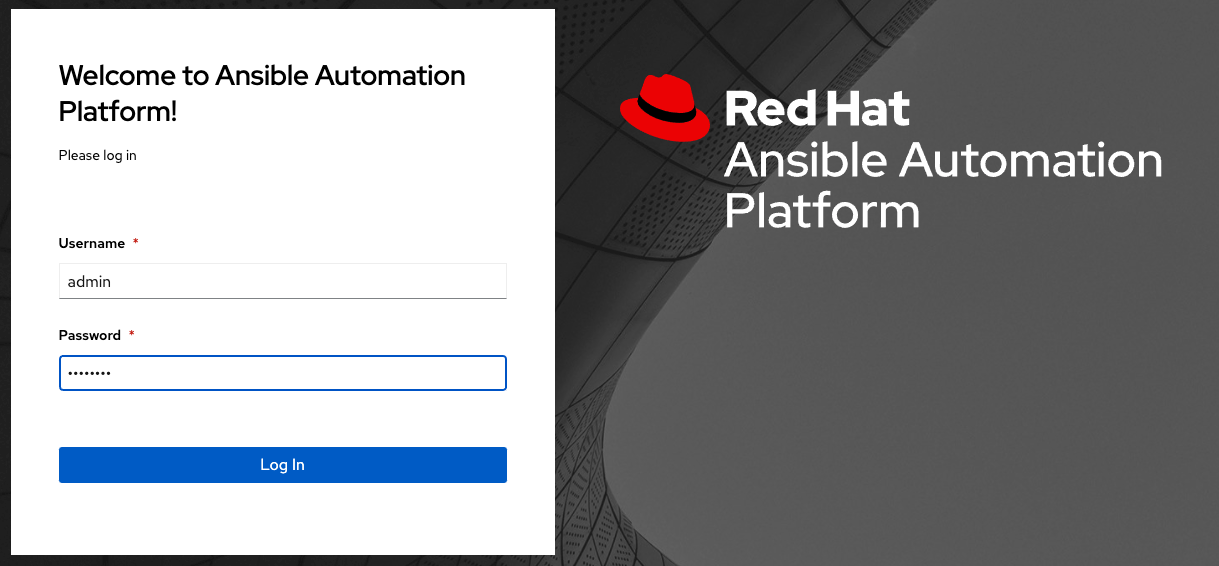
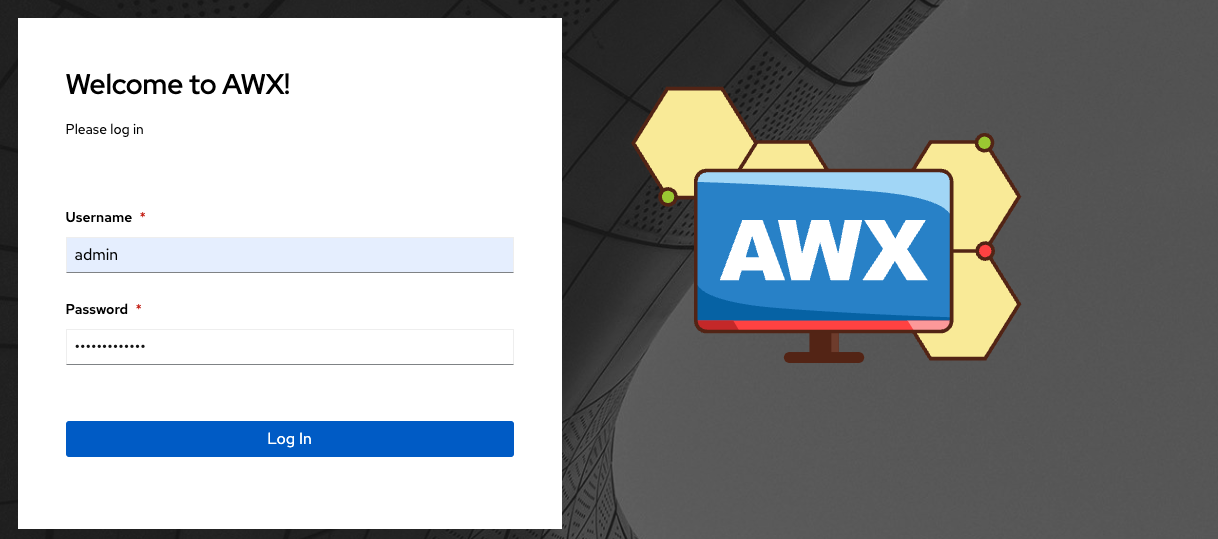
Changes for all Quickstart content.

Changed region(s): [[0.0, 0.0, 0.9672, 1.0], [0.7488, 0.0, 0.78, 0.0594], [0.7176, 0.0594, 0.7488, 0.1187]]

diff --git a/docs/docsite/rst/quickstart/examine_dashboard.rst b/docs/docsite/rst/quickstart/examine_dashboard.rst
@@ -1,5 +1,5 @@
-Examine the Controller Dashboard
-~~~~~~~~~~~~~~~~~~~~~~~~~~~~~~~~~~
+Examine the AWX Dashboard
+~~~~~~~~~~~~~~~~~~~~~~~~~~
 
 .. index::
    pair: dashboard; examine
@@ -15,13 +15,13 @@ Examine the Controller Dashboard
    pair: settings menu; help about
 
 
-The Dashboard offers a friendly graphical framework for your IT orchestration needs. Along the left side of the Dashboard is the navigation menu, where you can quickly display different views, navigate to your resources, grant access, and administer certain controller features in the UI. 
+The Dashboard offers a friendly graphical framework for your IT orchestration needs. Along the left side of the Dashboard is the navigation menu, where you can quickly display different views, navigate to your resources, grant access, and administer certain AWX features in the UI. 
 
 .. note::
 
-  The new controller User Interface is available for tech preview and is subject to change in a future release. To preview the new UI, click the **Enable Preview of New User Interface** toggle to **On** from the Miscellaneous System option of the Settings menu. 
+  The new AWX User Interface is available for tech preview and is subject to change in a future release. To preview the new UI, click the **Enable Preview of New User Interface** toggle to **On** from the Miscellaneous System option of the Settings menu. 
 
-  .. image:: ../common/images/configure-tower-system-misc-preview-newui.png
+  .. image:: ../common/images/configure-awx-system-misc-preview-newui.png
 
   After saving, logout and log back in to access the new UI from the preview banner. To return to the current UI, click the link on the top banner where indicated.
 
@@ -38,16 +38,16 @@ On the main Dashboard view, a summary appears listing your current **Job Status*
 
 .. |Home dashboard| image:: ../common/images/home-dashboard.png
 
-The very last item in the navigation bar is **Settings**, which provides access to the controller configuration Settings. 
+The very last item in the navigation bar is **Settings**, which provides access to the AWX configuration Settings. 
 
 The Settings page allows administrators to configure authentication, jobs, system-level attributes, customize the user interface, and product license information. Refer to :ref:`ag_configure_awx` section for more detail.
 
 .. image:: ../common/images/ug-settings-menu-screen.png
 
 
-Regardless of the window or action you're performing, the very top of each page next to the your user icon is the About (|about|) icon, which provides you the versions of |at| and Ansible you are currently running.
+Regardless of the window or action you're performing, the very top of each page next to the your user icon is the About (|about|) icon, which provides you the versions of AWX and Ansible you are currently running.
 
 .. |about| image:: ../common/images/help-about-icon.png
 
 .. note::
-	Keep in mind that the goal of this Quick Start is to launch a simple playbook. To do this, a number of configuration options must be setup. Completing the quick start configuration tasks now ensures that the controller is configured properly and allows for easier executions of more involved playbooks later on. 
+	Keep in mind that the goal of this Quick Start is to launch a simple playbook. To do this, a number of configuration options must be setup. Completing the quick start configuration tasks now ensures that tAWX is configured properly and allows for easier executions of more involved playbooks later on. 

diff --git a/docs/docsite/rst/quickstart/create_inventory.rst b/docs/docsite/rst/quickstart/create_inventory.rst
@@ -5,13 +5,13 @@ Create a new Inventory
    single: inventory; create new
    single: inventory; add to organization
 
-An inventory is a collection of hosts managed by the controller. Organizations are assigned to inventories, while permissions to launch playbooks against inventories are controlled at the user and/or team level. For more information, refer to :ref:`Inventories <ug_inventories>`, :ref:`Users - Permissions <ug_users_permissions>`, and :ref:`Teams - Permissions <ug_teams_permissions>` in the |atu|.
+An inventory is a collection of hosts managed by AWX. Organizations are assigned to inventories, while permissions to launch playbooks against inventories are controlled at the user and/or team level. For more information, refer to :ref:`Inventories <ug_inventories>`, :ref:`Users - Permissions <ug_users_permissions>`, and :ref:`Teams - Permissions <ug_teams_permissions>` in the |atu|.
 
 To view existing inventories, click **Inventories** from the left navigation bar.
 
 .. image:: ../common/images/qs-inventories-default-list-view.png
 
-|at| provides a demo inventory for you to use as you learn how the controller works. It can be used as is or edited later as needed. You may create another inventory if necessary. Refer to :ref:`ug_inventories_add` in the |atu| for detail.
+|at| provides a demo inventory for you to use as you learn how AWX works. It can be used as is or edited later as needed. You may create another inventory if necessary. Refer to :ref:`ug_inventories_add` in the |atu| for detail.
 
 For the purpose of this Quick Start Guide, leave the default inventory as is. 
 
@@ -37,7 +37,7 @@ To add new groups, click the **Add** button in the Groups screen.
 
 Similarly, in the **Hosts** tab, click the **Add** button to add hosts to groups.
 
-For the purposes of this Quick Start and to test that the controller is setup properly, a local host has been added for your use.
+For the purposes of this Quick Start and to test that AWX is setup properly, a local host has been added for your use.
 
 .. image:: ../common/images/qs-inventories-default-host.png
 

diff --git a/docs/docsite/rst/quickstart/create_organization.rst b/docs/docsite/rst/quickstart/create_organization.rst
@@ -4,12 +4,12 @@ Review the Organization
 .. index::
    single: organizations
 
-An organization is a logical collection of users, teams, projects, and inventories. It is the highest level object in the controller object hierarchy.
+An organization is a logical collection of users, teams, projects, and inventories. It is the highest level object in the AWX object hierarchy.
 
 From the left navigation bar, click **Organizations**. 
 
 .. note::
-    The automation controller creates a default organization automatically. Users of Tower with a Self-support level license only have the default organization available and should **not** delete it.  
+    AWX creates a default organization automatically. Users of Tower with a Self-support level license only have the 
 
 |Organizations - default view|
 
@@ -19,7 +19,7 @@ From the left navigation bar, click **Organizations**.
    single: organization; default
 
 
-A default organization has been automatically created and is available to all users of the automation controller. It can be used as is or edited later as needed. 
+A default organization has been automatically created and is available to all users of AWX. It can be used as is or edited later as needed, but deleting it is not recommended.  
 
 For the purpose of this Quick Start Guide, leave the default organization as is.
 
@@ -33,4 +33,4 @@ To edit the default organization later, expand its properties by clicking the Ed
 
 .. |Organizations - default expanded| image:: ../common/images/qs-organization-default-expand-properties.png
 
-Enterprise and Premium license users who want to add a new organization should refer to the :ref:`Organizations <ug_organizations>` section in the |atu|.
+To add a new organization, refer to the :ref:`ug_organizations` section in the |atu|.

diff --git a/docs/docsite/rst/quickstart/launch.rst b/docs/docsite/rst/quickstart/launch.rst
@@ -15,7 +15,7 @@ From the Templates list view, click the Launch (|launch|) button to run the Demo
 .. |Job templates - home launch| image:: ../common/images/qs-job-templates-list-view-click-launch.png
 
 
-The initial job launch returns a status page which updates automatically using the controller's Live Event feature until the job is complete. Once complete, the job results look like the following:
+The initial job launch returns a status page which updates automatically using AWX's Live Event feature until the job is complete. Once complete, the job results look like the following:
 
 |Job templates - demo run complete|
 
@@ -23,12 +23,12 @@ The initial job launch returns a status page which updates automatically using t
 
 For more details on the job results, refer to :ref:`ug_jobs`.
 
-Congratulations! Your controller installation is officially setup and running properly. To learn more about these controller features or to learn about administration tasks, the controller API, etc., refer to the following documentation sets:
+Congratulations! Your AWX installation is officially setup and running properly. To learn more about these AWX features or to learn about administration tasks, the AWX API, etc., refer to the following documentation sets:
 
-- :ref:`Automation Controller User Guide <ug_start>`
-- :ref:`Automation Controller Administration Guide <ag_start>`
-- :ref:`Automation Controller API Guide<api_start>`
-- :ref:`Automation Controller Release Notes <releasenotes_start>`
+- :ref:`AWX User Guide <ug_start>`
+- :ref:`AWX Administration Guide <ag_start>`
+- :ref:`AWX API Guide<api_start>`
+- :ref:`AWX Release Notes <releasenotes_start>`
 - `Ansible Documentation`_
 
 .. _Ansible Documentation: http://docs.ansible.com/

diff --git a/docs/docsite/rst/quickstart/quick_start.rst b/docs/docsite/rst/quickstart/quick_start.rst
@@ -4,8 +4,8 @@ Quick Start
 .. index::
    single: quick start, intro
 
-Welcome to the Automation Controller Quick Start Guide. At the end of the Quick Start, you will have a functioning controller application that you can use to launch more sophisticated playbooks. You can expect the Quick Start process to take less than thirty minutes.
+Welcome to the AWX Quick Start Guide. At the end of the Quick Start, you will have a functioning AWX application that you can use to launch more sophisticated playbooks. You can expect the Quick Start process to take less than thirty minutes.
 
-To begin, you must install |aap| and you must choose a target system where an initial playbook can be deployed (provided by |at|).
+To begin, you must install AWX and you must choose a target system where an initial playbook can be deployed (provided by AWX).
 
-This first playbook executes simple Ansible tasks, while teaching you how to use the controller, as well as ensuring its proper setup. This can be any sort of system manageable by Ansible, as described in the `Managed nodes <https://docs.ansible.com/ansible/latest/user_guide/basic_concepts.html#managed-nodes>`_ section of the Ansible documentation.
+This first playbook executes simple Ansible tasks, while teaching you how to use AWX, as well as ensuring its proper setup. This can be any sort of system manageable by Ansible, as described in the `Managed nodes <https://docs.ansible.com/ansible/latest/user_guide/basic_concepts.html#managed-nodes>`_ section of the Ansible documentation.

diff --git a/docs/docsite/rst/quickstart/login_superuser.rst b/docs/docsite/rst/quickstart/login_superuser.rst
@@ -2,11 +2,11 @@ Login as a Superuser
 ~~~~~~~~~~~~~~~~~~~~~~~
 
 .. index::
-   pair: log in; controller
+   pair: log in; AWX
 
-Using the login information provided after your installation completed, open a web browser and log in to the controller by browsing to its server URL at: ``https://<CONTROLLER_SERVER_NAME>/``
+Using the login information provided after your installation completed, open a web browser and log in to AWX by browsing to its server URL at: ``https://<AWX_SERVER_NAME>/``
 
-Once the controller UI is accessible, use the credentials specified during the installation process to login. The default username is ``admin``. The password for ``admin`` is the value specified for ``admin_password`` in your inventory file.
+Once the AWX UI is accessible, use the credentials specified during the installation process to login. The default username is ``admin``. The password for ``admin`` is the value specified for ``admin_password`` in your inventory file.
 
 These defaults can be changed later by clicking **Users** from the left navigation bar.
 

diff --git a/docs/docsite/rst/quickstart/create_user.rst b/docs/docsite/rst/quickstart/create_user.rst
@@ -12,7 +12,7 @@ Users associated with an organization are shown in the **Access** tab of the Org
 .. |Organizations - default admin user| image:: ../common/images/qs-organizations-admin-user-default-organization.png
 
 
-A default `admin` user with the role of System Administrator has been automatically created and is available to all users of |at|. It can be used as is or edited later as needed. You may add other users to an organization, but you must create the user(s) first. Refer to the :ref:`Users <ug_users_create>` section in the |atu| for detail.
+A default `admin` user with the role of System Administrator has been automatically created and is available to all users of AWX. It can be used as is or edited later as needed. You may add other users to an organization, but you must create the user(s) first. Refer to the :ref:`Users <ug_users_create>` section in the |atu| for detail.
 
 For the purpose of this Quick Start Guide, leave the default user as is. 
 

diff --git a/docs/docsite/rst/quickstart/create_project.rst b/docs/docsite/rst/quickstart/create_project.rst
@@ -5,9 +5,9 @@ Setting up a Project
    single: projects
 
 
-A Project is a logical collection of Ansible playbooks, represented in the controller.
+A Project is a logical collection of Ansible playbooks, represented in AWX.
 
-You can manage playbooks and playbook directories by either placing them manually under the Project Base Path on your controller server, or by placing your playbooks into a source code management (SCM) system supported by the controller, including Git, Subversion, and Mercurial.
+You can manage playbooks and playbook directories by either placing them manually under the Project Base Path on your AWX server, or by placing your playbooks into a source code management (SCM) system supported by AWX, including Git, Subversion, and Mercurial.
 
 .. note::
 

diff --git a/docs/docsite/rst/quickstart/create_credential.rst b/docs/docsite/rst/quickstart/create_credential.rst
@@ -4,7 +4,7 @@ Create a Credential
 .. index::
    single: credentials; create 
 
-Credentials authenticate the controller user to launch Ansible playbooks, which can include passwords and SSH keys, against inventory hosts. You can also require the controller user to enter a password or key phrase when a playbook launches using the credentials feature of the controller.
+Credentials authenticate the AWX user to launch Ansible playbooks, which can include passwords and SSH keys, against inventory hosts. You can also require the AWX user to enter a password or key phrase when a playbook launches using the credentials feature of AWX.
 
 Access the list of credentials by clicking **Credentials** from the left navigation bar.
 

diff --git a/docs/docsite/rst/common/settings-menu.rst b/docs/docsite/rst/common/settings-menu.rst
@@ -5,7 +5,7 @@
    pair: settings menu; configure the controller
 
 
-To enter the Settings window for |at|, click **Settings** from the left navigation bar. This page allows you to modify your controller's configuration, such as settings associated with authentication, jobs, system, and user interface.
+To enter the Settings window for AWX, click **Settings** from the left navigation bar. This page allows you to modify your AWX configuration, such as settings associated with authentication, jobs, system, and user interface.
 
 .. image:: ../common/images/ug-settings-menu-screen.png
 
